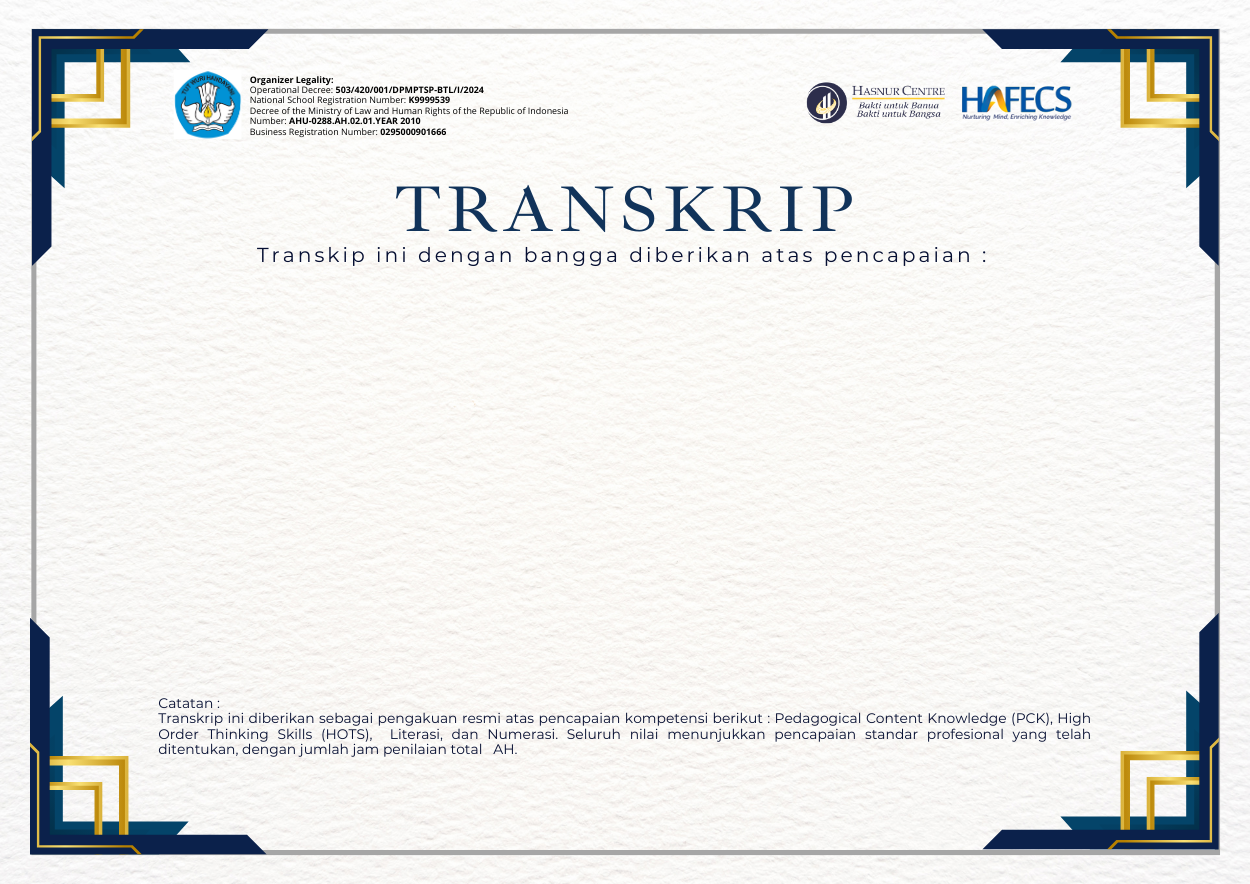
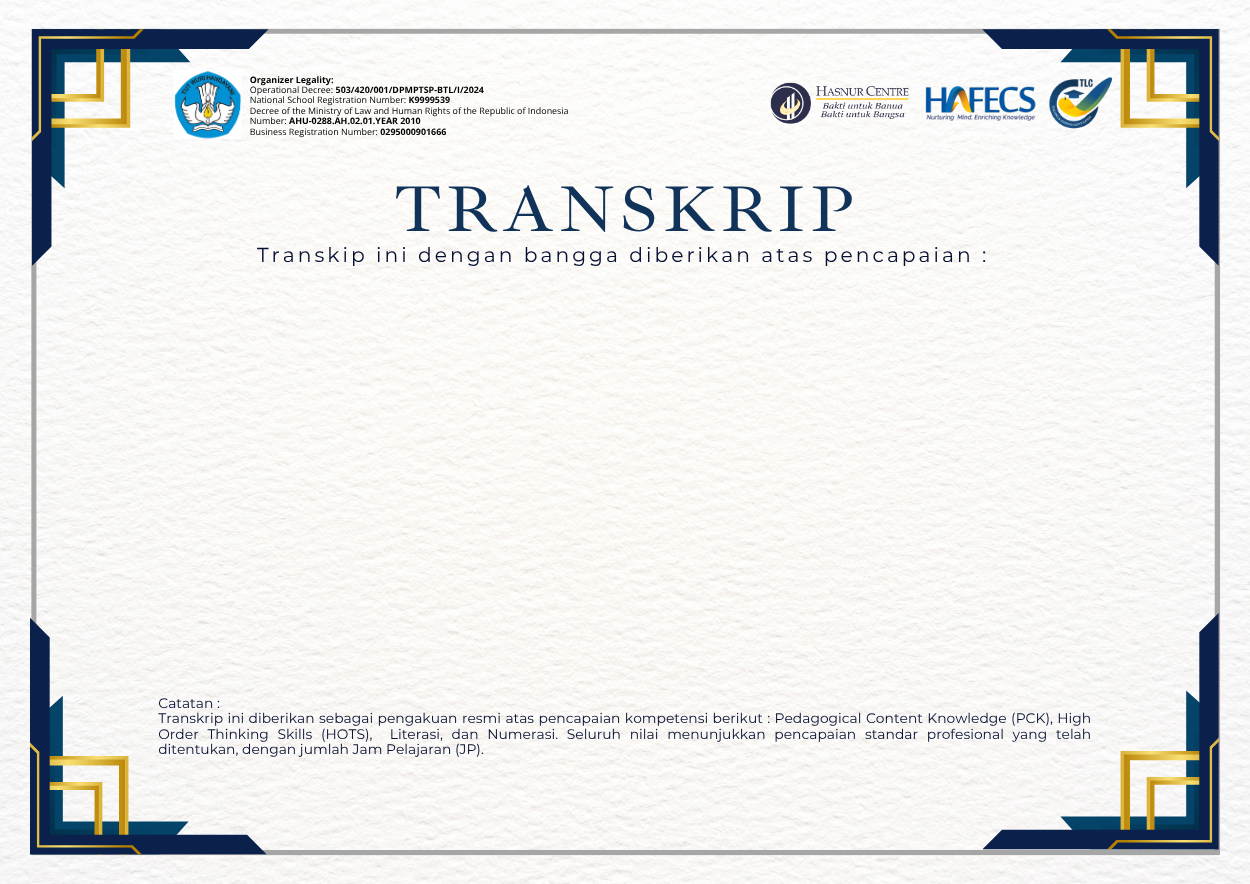
revision change bg sertif_tlc2

Changed region(s): [[0.5928, 0.0916, 0.9048, 0.1527], [0.2808, 0.8247, 0.4056, 0.8552]]

diff --git a/resources/views/admin/certificate/index.blade.php b/resources/views/admin/certificate/index.blade.php
@@ -44,7 +44,6 @@
                             <option value="B" {{ request('category_name') == 'B' ? 'selected' : '' }}>Level B</option>
                             <option value="C" {{ request('category_name') == 'C' ? 'selected' : '' }}>Level C</option>
                         </select>
-                        </select>
                     </div>
                     <button class="px-3 py-1.5 bg-blue-600 text-white text-sm rounded">
                         Filter
@@ -53,7 +52,7 @@
 
                 <!-- Total Users -->
                 <div class="text-gray-600 text-sm">
-                    👥 0 Asesi
+                    👥 {{ $certificates->total() ?? 0 }} Asesi
                 </div>
 
                 <!-- Actions -->
@@ -73,6 +72,7 @@
             </div>
         </nav>
     </div>
+
     <!-- User Table -->
     <div class="bg-white rounded-lg shadow-md overflow-hidden">
         <div class="overflow-x-auto">
@@ -97,51 +97,82 @@
                         </th>
                         <th scope="col"
                             class="px-4 py-3 text-xs font-medium text-left text-white uppercase tracking-wider">
-                            No Sertifikat
+                            Tanggal Terbit
                         </th>
                         <th scope="col"
                             class="px-4 py-3 text-xs font-medium text-left text-white uppercase tracking-wider">
+                            Jumlah Download
+                        </th>
+                        <th scope="col"
+                            class="px-4 py-3 text-xs font-medium text-center text-white uppercase tracking-wider">
                             Actions
                         </th>
                     </tr>
                 </thead>
                 <tbody class="bg-white divide-y divide-gray-200">
-                    {{-- @forelse ($userProfile as $index => $user) --}}
+                    @forelse ($certificates as $index => $certificate)
                         <tr class="hover:bg-gray-50 transition-colors">
                             <!-- Row Number -->
                             <td class="px-4 py-3 whitespace-nowrap text-sm text-gray-500">
-                                111
+                                {{ $certificates->firstItem() + $index }}
                             </td>
 
-                            <!-- Phone -->
+                            <!-- Nama Asesi -->
+                            <td class="px-4 py-3 whitespace-nowrap text-sm text-gray-900 font-medium">
+                                {{ $certificate->name }}
+                            </td>
+
+                            <!-- Level (dari user profile) -->
+                            <td class="px-4 py-3 whitespace-nowrap text-sm">
+                                @if($certificate->user && $certificate->user->profile && $certificate->user->profile->category_name)
+                                    <span class="px-2 py-1 text-xs font-semibold rounded-full
+                                        @if($certificate->user->profile->category_name == 'A') bg-green-100 text-green-800
+                                        @elseif($certificate->user->profile->category_name == 'B') bg-blue-100 text-blue-800
+                                        @elseif($certificate->user->profile->category_name == 'C') bg-purple-100 text-purple-800
+                                        @else bg-gray-100 text-gray-800
+                                        @endif">
+                                        Level {{ $certificate->user->profile->category_name }}
+                                    </span>
+                                @else
+                                    <span class="px-2 py-1 text-xs font-semibold rounded-full bg-gray-100 text-gray-800">
+                                        -
+                                    </span>
+                                @endif
+                            </td>
+
+                            <!-- No Sertifikat -->
                             <td class="px-4 py-3 whitespace-nowrap text-sm text-gray-500">
-                                0812312312312
+                                {{ $certificate->certificate_number }}
                             </td>
 
-                            <!-- Institution -->
-                            <td class="px-4 py-3 whitespace-nowrap text-sm text-gray-500 max-w-xs truncate">
-                                instansi
-                            </td>
-
-                            <!-- Created At -->
+                            <!-- Tanggal Terbit -->
                             <td class="px-4 py-3 whitespace-nowrap text-sm text-gray-500">
-c                                2023-10-10                                
+                                {{ \Carbon\Carbon::parse($certificate->issue_date)->format('d M Y') }}
                             </td>
 
-                            <!-- Last Seen -->
+                            <!-- Jumlah Download -->
                             <td class="px-4 py-3 whitespace-nowrap text-sm text-gray-500">
-                                -
+                                <div class="flex items-center gap-1">
+                                    <svg class="w-4 h-4 text-gray-400" fill="currentColor" viewBox="0 0 20 20">
+                                        <path fill-rule="evenodd" d="M3 17a1 1 0 011-1h12a1 1 0 110 2H4a1 1 0 01-1-1zm3.293-7.707a1 1 0 011.414 0L9 10.586V3a1 1 0 112 0v7.586l1.293-1.293a1 1 0 111.414 1.414l-3 3a1 1 0 01-1.414 0l-3-3a1 1 0 010-1.414z" clip-rule="evenodd"/>
+                                    </svg>
+                                    {{ $certificate->download_count }}x
+                                </div>
+                                @if($certificate->last_downloaded_at)
+                                    <div class="text-xs text-gray-400 mt-1">
+                                        {{ \Carbon\Carbon::parse($certificate->last_downloaded_at)->diffForHumans() }}
+                                    </div>
+                                @endif
                             </td>
 
                             <!-- Actions -->
                             <td class="px-4 py-3 whitespace-nowrap text-sm text-gray-500">
-                                <div class="flex space-x-2">
+                                <div class="flex justify-center space-x-2">
                                     <!-- View -->
-                                    <a href="#"
+                                    <a href="{{ route('admin.asesi.show', $certificate->id) }}"
                                         class="p-2 text-amber-600 bg-amber-50 rounded-md hover:bg-amber-100 transition-colors"
                                         title="View Details">
-                                        <svg class="w-4 h-4" fill="currentColor" viewBox="0 0 20 20"
-                                            xmlns="http://www.w3.org/2000/svg">
+                                        <svg class="w-4 h-4" fill="currentColor" viewBox="0 0 20 20">
                                             <path d="M10 12a2 2 0 100-4 2 2 0 000 4z"></path>
                                             <path fill-rule="evenodd"
                                                 d="M.458 10C1.732 5.943 5.522 3 10 3s8.268 2.943 9.542 7c-1.274 4.057-5.064 7-9.542 7S1.732 14.057.458 10zM14 10a4 4 0 11-8 0 4 4 0 018 0z"
@@ -150,11 +181,10 @@ c                                2023-10-10
                                     </a>
 
                                     <!-- Edit -->
-                                    <a href="#"
+                                    <a href="{{ route('admin.asesi.edit', $certificate->id) }}"
                                         class="p-2 text-indigo-600 bg-indigo-50 rounded-md hover:bg-indigo-100 transition-colors"
-                                        title="Edit User">
-                                        <svg class="w-4 h-4" fill="currentColor" viewBox="0 0 20 20"
-                                            xmlns="http://www.w3.org/2000/svg">
+                                        title="Edit Certificate">
+                                        <svg class="w-4 h-4" fill="currentColor" viewBox="0 0 20 20">
                                             <path
                                                 d="M13.586 3.586a2 2 0 112.828 2.828l-.793.793-2.828-2.828.793-.793zM11.379 5.793L3 14.172V17h2.828l8.38-8.379-2.83-2.828z">
                                             </path>
@@ -162,17 +192,16 @@ c                                2023-10-10
                                     </a>
 
                                     <!-- Delete -->
-                                    <form action="" method="POST"
-                                        onsubmit="return confirm('Yakin ingin menghapus data ini?');">
+                                    <form action="{{ route('admin.asesi.destroy', $certificate->id) }}" method="POST"
+                                        onsubmit="return confirm('Yakin ingin menghapus sertifikat {{ $certificate->name }}?');">
                                         @csrf
                                         @method('DELETE')
                                         <button type="submit"
                                             class="p-2 text-red-600 bg-red-50 rounded-md hover:bg-red-100 transition-colors"
-                                            title="Delete User">
-                                            <svg class="w-4 h-4" fill="currentColor" viewBox="0 0 20 20"
-                                                xmlns="http://www.w3.org/2000/svg">
+                                            title="Delete Certificate">
+                                            <svg class="w-4 h-4" fill="currentColor" viewBox="0 0 20 20">
                                                 <path fill-rule="evenodd"
-                                                    d="M9 2a1 1 0 00-.894.553L7.382 4H4a1 1 0 000 2v10a2 2 0 002 2h8a2 2 0 002-2V6a1 1 0 100-2h-3.382l-.724-1.447A1 1 0 0011 2H9zM7 8a1 1 0 012 0v6a1 1 0 11-2 0V8zm5-1a1 1 0 00-1 1v6a1 1 0 102 0V8a1 1 0 00-1-1z"
+                                                    d="M9 2a1 1 0 00-.894x`.553L7.382 4H4a1 1 0 000 2v10a2 2 0 002 2h8a2 2 0 002-2V6a1 1 0 100-2h-3.382l-.724-1.447A1 1 0 0011 2H9zM7 8a1 1 0 012 0v6a1 1 0 11-2 0V8zm5-1a1 1 0 00-1 1v6a1 1 0 102 0V8a1 1 0 00-1-1z"
                                                     clip-rule="evenodd"></path>
                                             </svg>
                                         </button>
@@ -180,7 +209,20 @@ c                                2023-10-10
                                 </div>
                             </td>
                         </tr>
-                
+                    @empty
+                        <tr>
+                            <td colspan="7" class="px-4 py-8 text-center text-gray-500">
+                                <div class="flex flex-col items-center justify-center">
+                                    <svg class="w-12 h-12 text-gray-300 mb-2" fill="none" stroke="currentColor" viewBox="0 0 24 24">
+                                        <path stroke-linecap="round" stroke-linejoin="round" stroke-width="2" 
+                                            d="M9 12h6m-6 4h6m2 5H7a2 2 0 01-2-2V5a2 2 0 012-2h5.586a1 1 0 01.707.293l5.414 5.414a1 1 0 01.293.707V19a2 2 0 01-2 2z"/>
+                                    </svg>
+                                    <p class="text-lg font-medium">Tidak ada data sertifikat</p>
+                                    <p class="text-sm text-gray-400">Silakan tambahkan asesi baru</p>
+                                </div>
+                            </td>
+                        </tr>
+                    @endforelse
                 </tbody>
             </table>
         </div>
@@ -188,7 +230,7 @@ c                                2023-10-10
 
     <!-- Pagination -->
     <div class="mt-6">
-        user links
+        {{ $certificates->links() }}
     </div>
 
     <!-- Delete Modal -->
@@ -247,7 +289,7 @@ c                                2023-10-10
                 <a href="#" class="block px-4 py-2 hover:bg-gray-100">
                     <div class="flex justify-between items-center">
                         <span>Non Level</span>
-                        <span class="font-semibold text-indigo-600">42</span>
+                        <span class="font-semibold text-indigo-600">{{ $stats['non_level'] ?? 0 }}</span>
                     </div>
                 </a>
             </li>
@@ -255,7 +297,7 @@ c                                2023-10-10
                 <a href="#" class="block px-4 py-2 hover:bg-gray-100">
                     <div class="flex justify-between items-center">
                         <span>Level A</span>
-                        <span class="font-semibold text-indigo-600">24</span>
+                        <span class="font-semibold text-indigo-600">{{ $stats['level_a'] ?? 0 }}</span>
                     </div>
                 </a>
             </li>
@@ -263,7 +305,7 @@ c                                2023-10-10
                 <a href="#" class="block px-4 py-2 hover:bg-gray-100">
                     <div class="flex justify-between items-center">
                         <span>Level B</span>
-                        <span class="font-semibold text-indigo-600">18</span>
+                        <span class="font-semibold text-indigo-600">{{ $stats['level_b'] ?? 0 }}</span>
                     </div>
                 </a>
             </li>
@@ -271,7 +313,7 @@ c                                2023-10-10
                 <a href="#" class="block px-4 py-2 hover:bg-gray-100">
                     <div class="flex justify-between items-center">
                         <span>Level C</span>
-                        <span class="font-semibold text-indigo-600">9</span>
+                        <span class="font-semibold text-indigo-600">{{ $stats['level_c'] ?? 0 }}</span>
                     </div>
                 </a>
             </li>
